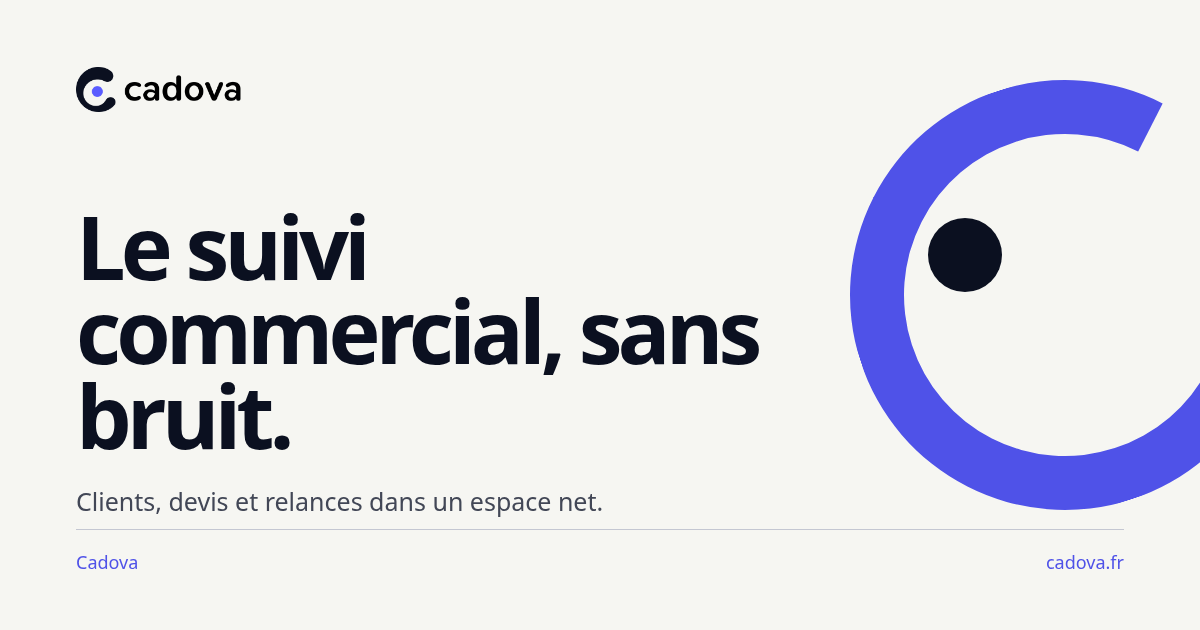
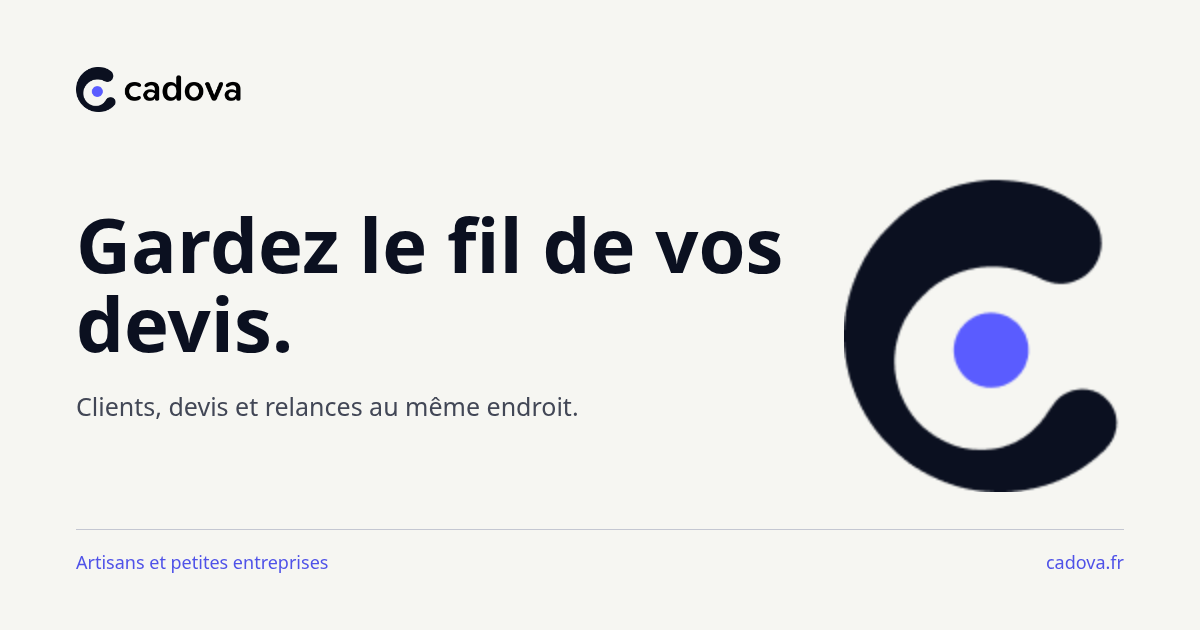
Clarifier les textes de la landing Cadova

diff --git a/src/features/landing/LandingPage.tsx b/src/features/landing/LandingPage.tsx
@@ -10,7 +10,7 @@ import { Link } from "react-router-dom"
 import {
   ArrowDown,
   ArrowRight,
-  BellRing,
+  CalendarDays,
   FolderKanban,
   Menu,
   ShieldCheck,
@@ -27,22 +27,31 @@ const FollowupScene = lazy(() =>
 
 const navItems = [
   { label: "Produit", id: "produit" },
-  { label: "Usage", id: "usage" },
-  { label: "Cadre", id: "cadre" },
+  { label: "Le suivi", id: "usage" },
+  { label: "Vos relances", id: "cadre" },
 ]
 
 const productLines = [
-  "Clients regroupés par dossier.",
-  "Devis suivis par statut.",
-  "Relances préparées, jamais imposées.",
+  {
+    title: "Retrouvez le bon dossier.",
+    text: "Coordonnées, notes et devis sont réunis autour du même client.",
+  },
+  {
+    title: "Repérez les devis en attente.",
+    text: "Retrouvez leur statut et les relances déjà effectuées.",
+  },
+  {
+    title: "Préparez votre prochain message.",
+    text: "Adaptez le texte proposé au dossier avant de contacter le client.",
+  },
 ]
 
 export function LandingPage() {
-  usePageTitle("Clients, devis et relances")
+  usePageTitle("Suivi des devis et relances")
   const { session, loading } = useAuth()
   const [menuOpen, setMenuOpen] = useState(false)
   const destination = !loading && session ? "/app" : "/signup"
-  const action = session ? "Ouvrir mon espace" : "Créer mon espace"
+  const action = session ? "Ouvrir mon espace" : "Créer mon compte"
 
   useEffect(() => {
     const close = (event: KeyboardEvent) => {
@@ -153,13 +162,15 @@ export function LandingPage() {
         >
           <div className="page-container relative grid items-center pb-2 pt-6 md:min-h-[calc(100svh-120px)] md:grid-cols-[0.92fr_1.08fr] md:py-14 lg:py-20">
             <div className="min-w-0 max-w-2xl">
-              <p className="section-kicker hidden md:block">Cadova</p>
+              <p className="section-kicker hidden md:block">
+                Artisans et petites entreprises
+              </p>
               <h1 className="max-w-[12ch] text-[2.5rem] font-semibold leading-[1.02] tracking-normal min-[390px]:text-[2.75rem] md:mt-5 md:text-[3.2rem] lg:text-[4.5rem] xl:text-[5.25rem]">
-                Le suivi commercial, sans bruit.
+                Gardez le fil de vos devis.
               </h1>
               <p className="mt-5 max-w-md text-base leading-7 text-ink-soft md:mt-7">
-                Un espace net pour retrouver vos clients, vos devis et la prochaine
-                relance utile.
+                Retrouvez vos clients, suivez les devis en attente et préparez vos
+                relances.
               </p>
               <div className="mt-5 flex flex-wrap gap-3 md:mt-8">
                 <LinkButton to={destination}>
@@ -168,8 +179,8 @@ export function LandingPage() {
                 </LinkButton>
                 <a
                   href="#usage"
-                  aria-label="Voir l’usage"
-                  title="Voir l’usage"
+                  aria-label="Voir le suivi"
+                  title="Voir le suivi"
                   onClick={(e) => scrollToSection("usage", e)}
                   className="ui-button border border-line-strong bg-background text-ink hover:bg-primary-soft max-[389px]:w-11 max-[389px]:px-0"
                 >
@@ -178,7 +189,7 @@ export function LandingPage() {
                     aria-hidden="true"
                     className="min-[390px]:hidden"
                   />
-                  <span className="hidden min-[390px]:inline">Voir l’usage</span>
+                  <span className="hidden min-[390px]:inline">Voir le suivi</span>
                 </a>
               </div>
             </div>
@@ -193,21 +204,26 @@ export function LandingPage() {
         <section id="usage" tabIndex={-1} className="py-10 lg:py-20">
           <div className="page-container grid gap-10 lg:grid-cols-[0.72fr_1.28fr]">
             <div>
-              <p className="section-kicker">Usage</p>
-              <h2 className="section-title mt-4">
-                Une page de travail, pas une promesse.
-              </h2>
+              <p className="section-kicker">Au quotidien</p>
+              <h2 className="section-title mt-4">Du client à la prochaine relance.</h2>
             </div>
             <div className="grid gap-3">
-              {productLines.map((line, index) => (
+              {productLines.map(({ title, text }, index) => (
                 <article
-                  key={line}
-                  className="grid grid-cols-[52px_minmax(0,1fr)] items-center border-t border-line py-5 last:border-b"
+                  key={title}
+                  className="grid grid-cols-[52px_minmax(0,1fr)] items-start border-t border-line py-5 last:border-b"
                 >
-                  <span className="font-mono text-sm text-primary">0{index + 1}</span>
-                  <p className="text-[clamp(1.45rem,3.4vw,3rem)] font-semibold leading-tight tracking-[-.045em]">
-                    {line}
-                  </p>
+                  <span className="pt-1.5 font-mono text-sm text-primary">
+                    0{index + 1}
+                  </span>
+                  <div>
+                    <h3 className="text-2xl font-semibold leading-tight md:text-3xl lg:text-4xl">
+                      {title}
+                    </h3>
+                    <p className="mt-3 max-w-lg text-sm leading-6 text-ink-soft md:text-base">
+                      {text}
+                    </p>
+                  </div>
                 </article>
               ))}
             </div>
@@ -218,18 +234,18 @@ export function LandingPage() {
           <div className="page-container grid gap-0 lg:grid-cols-3">
             <Feature
               icon={<FolderKanban size={22} />}
-              title="Dossiers propres"
-              text="Coordonnées, notes et devis restent attachés au bon client."
+              title="Un historique par devis"
+              text="Gardez vos notes et une trace des relances que vous enregistrez."
             />
             <Feature
-              icon={<BellRing size={22} />}
-              title="Relances prêtes"
-              text="Cadova aide à préparer la suite. Vous décidez du moment et du message."
+              icon={<CalendarDays size={22} />}
+              title="Une date de relance"
+              text="Choisissez la date de la prochaine relance. Elle reste visible dans le devis."
             />
             <Feature
               icon={<ShieldCheck size={22} />}
-              title="Espace séparé"
-              text="Chaque entreprise travaille dans son propre espace."
+              title="Un espace par entreprise"
+              text="Vos dossiers sont accessibles aux personnes autorisées de votre entreprise."
             />
           </div>
         </section>
@@ -237,16 +253,15 @@ export function LandingPage() {
         <section id="cadre" tabIndex={-1} className="py-14 lg:py-20">
           <div className="page-container grid gap-10 lg:grid-cols-[1fr_1fr] lg:items-end">
             <div>
-              <p className="section-kicker">Cadre</p>
+              <p className="section-kicker">La relation client</p>
               <h2 className="mt-4 max-w-xl text-[clamp(2.4rem,6vw,5.6rem)] font-semibold leading-[0.92] tracking-[-.06em]">
-                Vos devis restent vos devis.
+                Vous choisissez la suite.
               </h2>
             </div>
             <div className="max-w-lg lg:justify-self-end">
               <p className="text-base leading-7 text-ink-soft">
-                L’outil ne remplace pas la relation client. Il garde les informations
-                lisibles, prépare le suivi et laisse la décision à la personne qui
-                connaît le dossier.
+                Adaptez le message au dossier et envoyez-le depuis votre messagerie.
+                Enregistrez la relance pour garder une trace du suivi.
               </p>
               <div className="mt-8">
                 <LinkButton to={destination}>
@@ -294,7 +309,7 @@ function Footer() {
             className="flex flex-wrap gap-x-5 gap-y-3 text-xs text-muted"
           >
             <Link to="/privacy" className="hover:text-primary">
-              Confidentialité
+              Politique de confidentialité
             </Link>
             <Link to="/terms" className="hover:text-primary">
               Conditions d’utilisation
@@ -303,7 +318,7 @@ function Footer() {
               Mentions légales
             </Link>
             <Link to="/cookies" className="hover:text-primary">
-              Cookies
+              Cookies et stockage local
             </Link>
           </nav>
         </div>

diff --git a/index.html b/index.html
@@ -5,7 +5,7 @@
     <meta name="viewport" content="width=device-width, initial-scale=1.0" />
     <meta
       name="description"
-      content="Cadova vous aide à suivre vos devis, identifier les relances prioritaires et visualiser les montants en attente."
+      content="Retrouvez vos clients, suivez les devis en attente de réponse et préparez vos relances. Cadova accompagne les artisans et les petites entreprises."
     />
     <link rel="icon" type="image/svg+xml" href="/favicon.svg" />
     <link rel="alternate icon" type="image/png" href="/favicon.png" />
@@ -14,27 +14,24 @@
     <meta property="og:type" content="website" />
     <meta property="og:locale" content="fr_FR" />
     <meta property="og:site_name" content="Cadova" />
-    <meta property="og:title" content="Cadova | Clients, devis et relances" />
+    <meta property="og:title" content="Cadova | Suivi des devis et relances" />
     <meta
       property="og:description"
-      content="Retrouvez vos devis en attente, préparez vos relances et gardez une trace de vos échanges clients."
+      content="Retrouvez vos clients, suivez les devis en attente de réponse et préparez vos relances."
     />
     <meta property="og:url" content="https://cadova.fr/" />
     <meta property="og:image" content="https://cadova.fr/social-card.png" />
     <meta property="og:image:width" content="1200" />
     <meta property="og:image:height" content="630" />
-    <meta
-      property="og:image:alt"
-      content="Cadova, le suivi de vos clients, devis et relances."
-    />
+    <meta property="og:image:alt" content="Cadova. Gardez le fil de vos devis." />
     <meta name="twitter:card" content="summary_large_image" />
-    <meta name="twitter:title" content="Cadova | Clients, devis et relances" />
+    <meta name="twitter:title" content="Cadova | Suivi des devis et relances" />
     <meta
       name="twitter:description"
-      content="Un espace pour suivre vos clients, vos devis et vos relances."
+      content="Retrouvez vos clients, suivez les devis en attente de réponse et préparez vos relances."
     />
     <meta name="twitter:image" content="https://cadova.fr/social-card.png" />
-    <title>Cadova | Clients, devis et relances</title>
+    <title>Cadova | Suivi des devis et relances</title>
   </head>
   <body>
     <div id="root"></div>

diff --git a/src/features/landing/followupStory.ts b/src/features/landing/followupStory.ts
@@ -3,7 +3,7 @@ export const STORY_DURATION = 24
 export const storyChapters = [
   {
     label: "Client",
-    title: "Le dossier client",
+    title: "Le dossier du client",
     detail: "Coordonnées et notes",
     start: 0,
   },
@@ -15,14 +15,14 @@ export const storyChapters = [
   },
   {
     label: "Relance",
-    title: "La relance à préparer",
-    detail: "Message à personnaliser",
+    title: "La prochaine relance",
+    detail: "Un message à adapter",
     start: 12,
   },
   {
     label: "Dossier",
-    title: "Le dossier complet",
-    detail: "Client, devis et historique",
+    title: "Le suivi du dossier",
+    detail: "Devis, notes et relances",
     start: 18,
   },
 ] as const

diff --git a/src/features/landing/FollowupScene.tsx b/src/features/landing/FollowupScene.tsx
@@ -141,7 +141,7 @@ export function FollowupScene() {
     const cards = [
       { label: "Client", lines: ["Coordonnées", "Notes"], focusY: 0 },
       { label: "Devis", lines: ["Envoyé", "En attente"], focusY: -0.2 },
-      { label: "Relance", lines: ["À préparer", "Message"], focusY: -0.88 },
+      { label: "Relance", lines: ["À préparer", "Votre message"], focusY: -0.88 },
     ].map(({ label, lines, focusY }, index) => {
       const group = new THREE.Group()
       const card = new THREE.Mesh(cardGeometry, paper)
